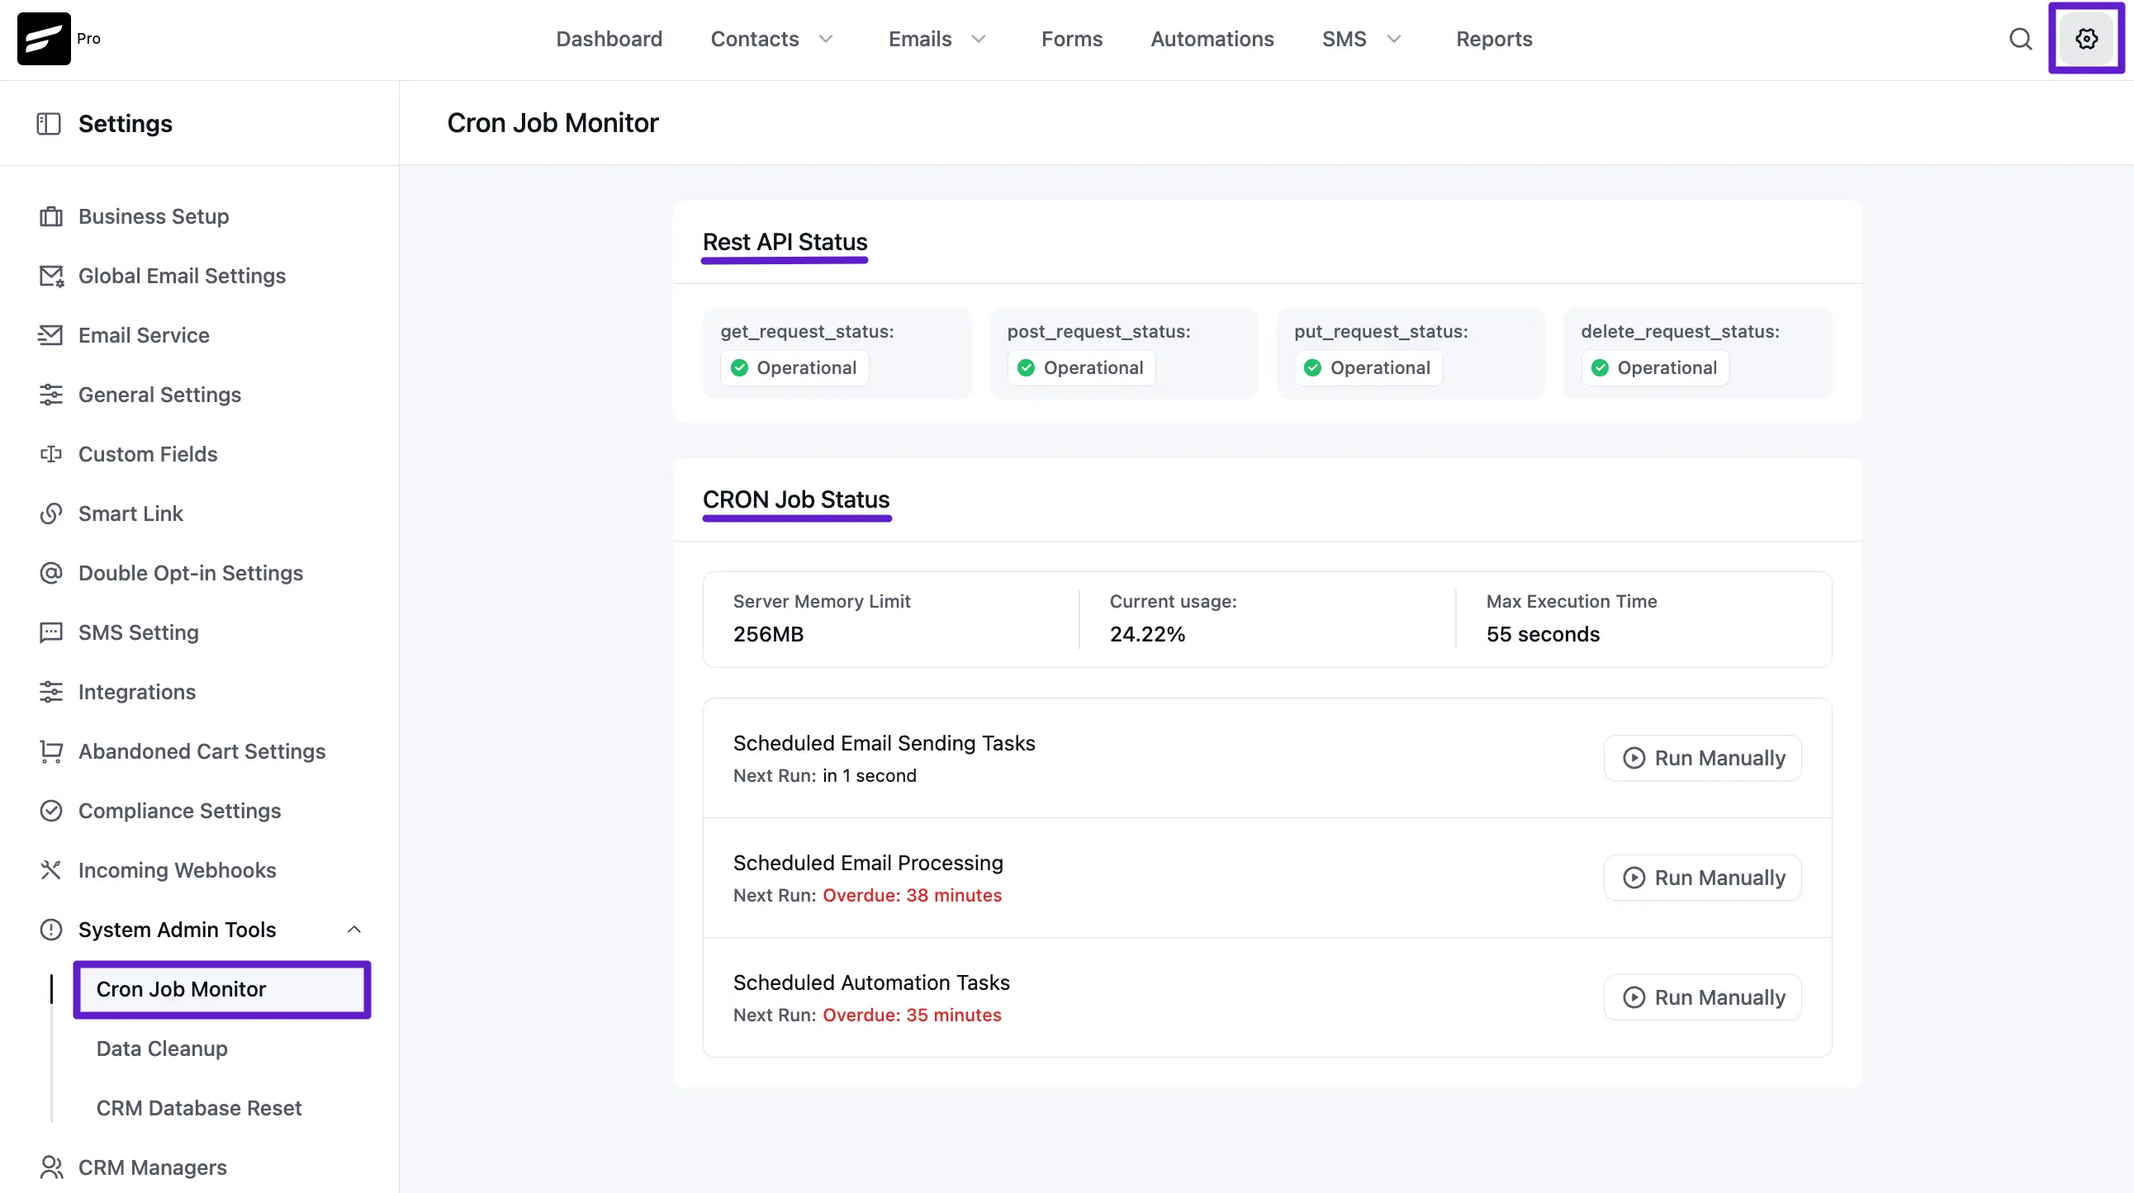
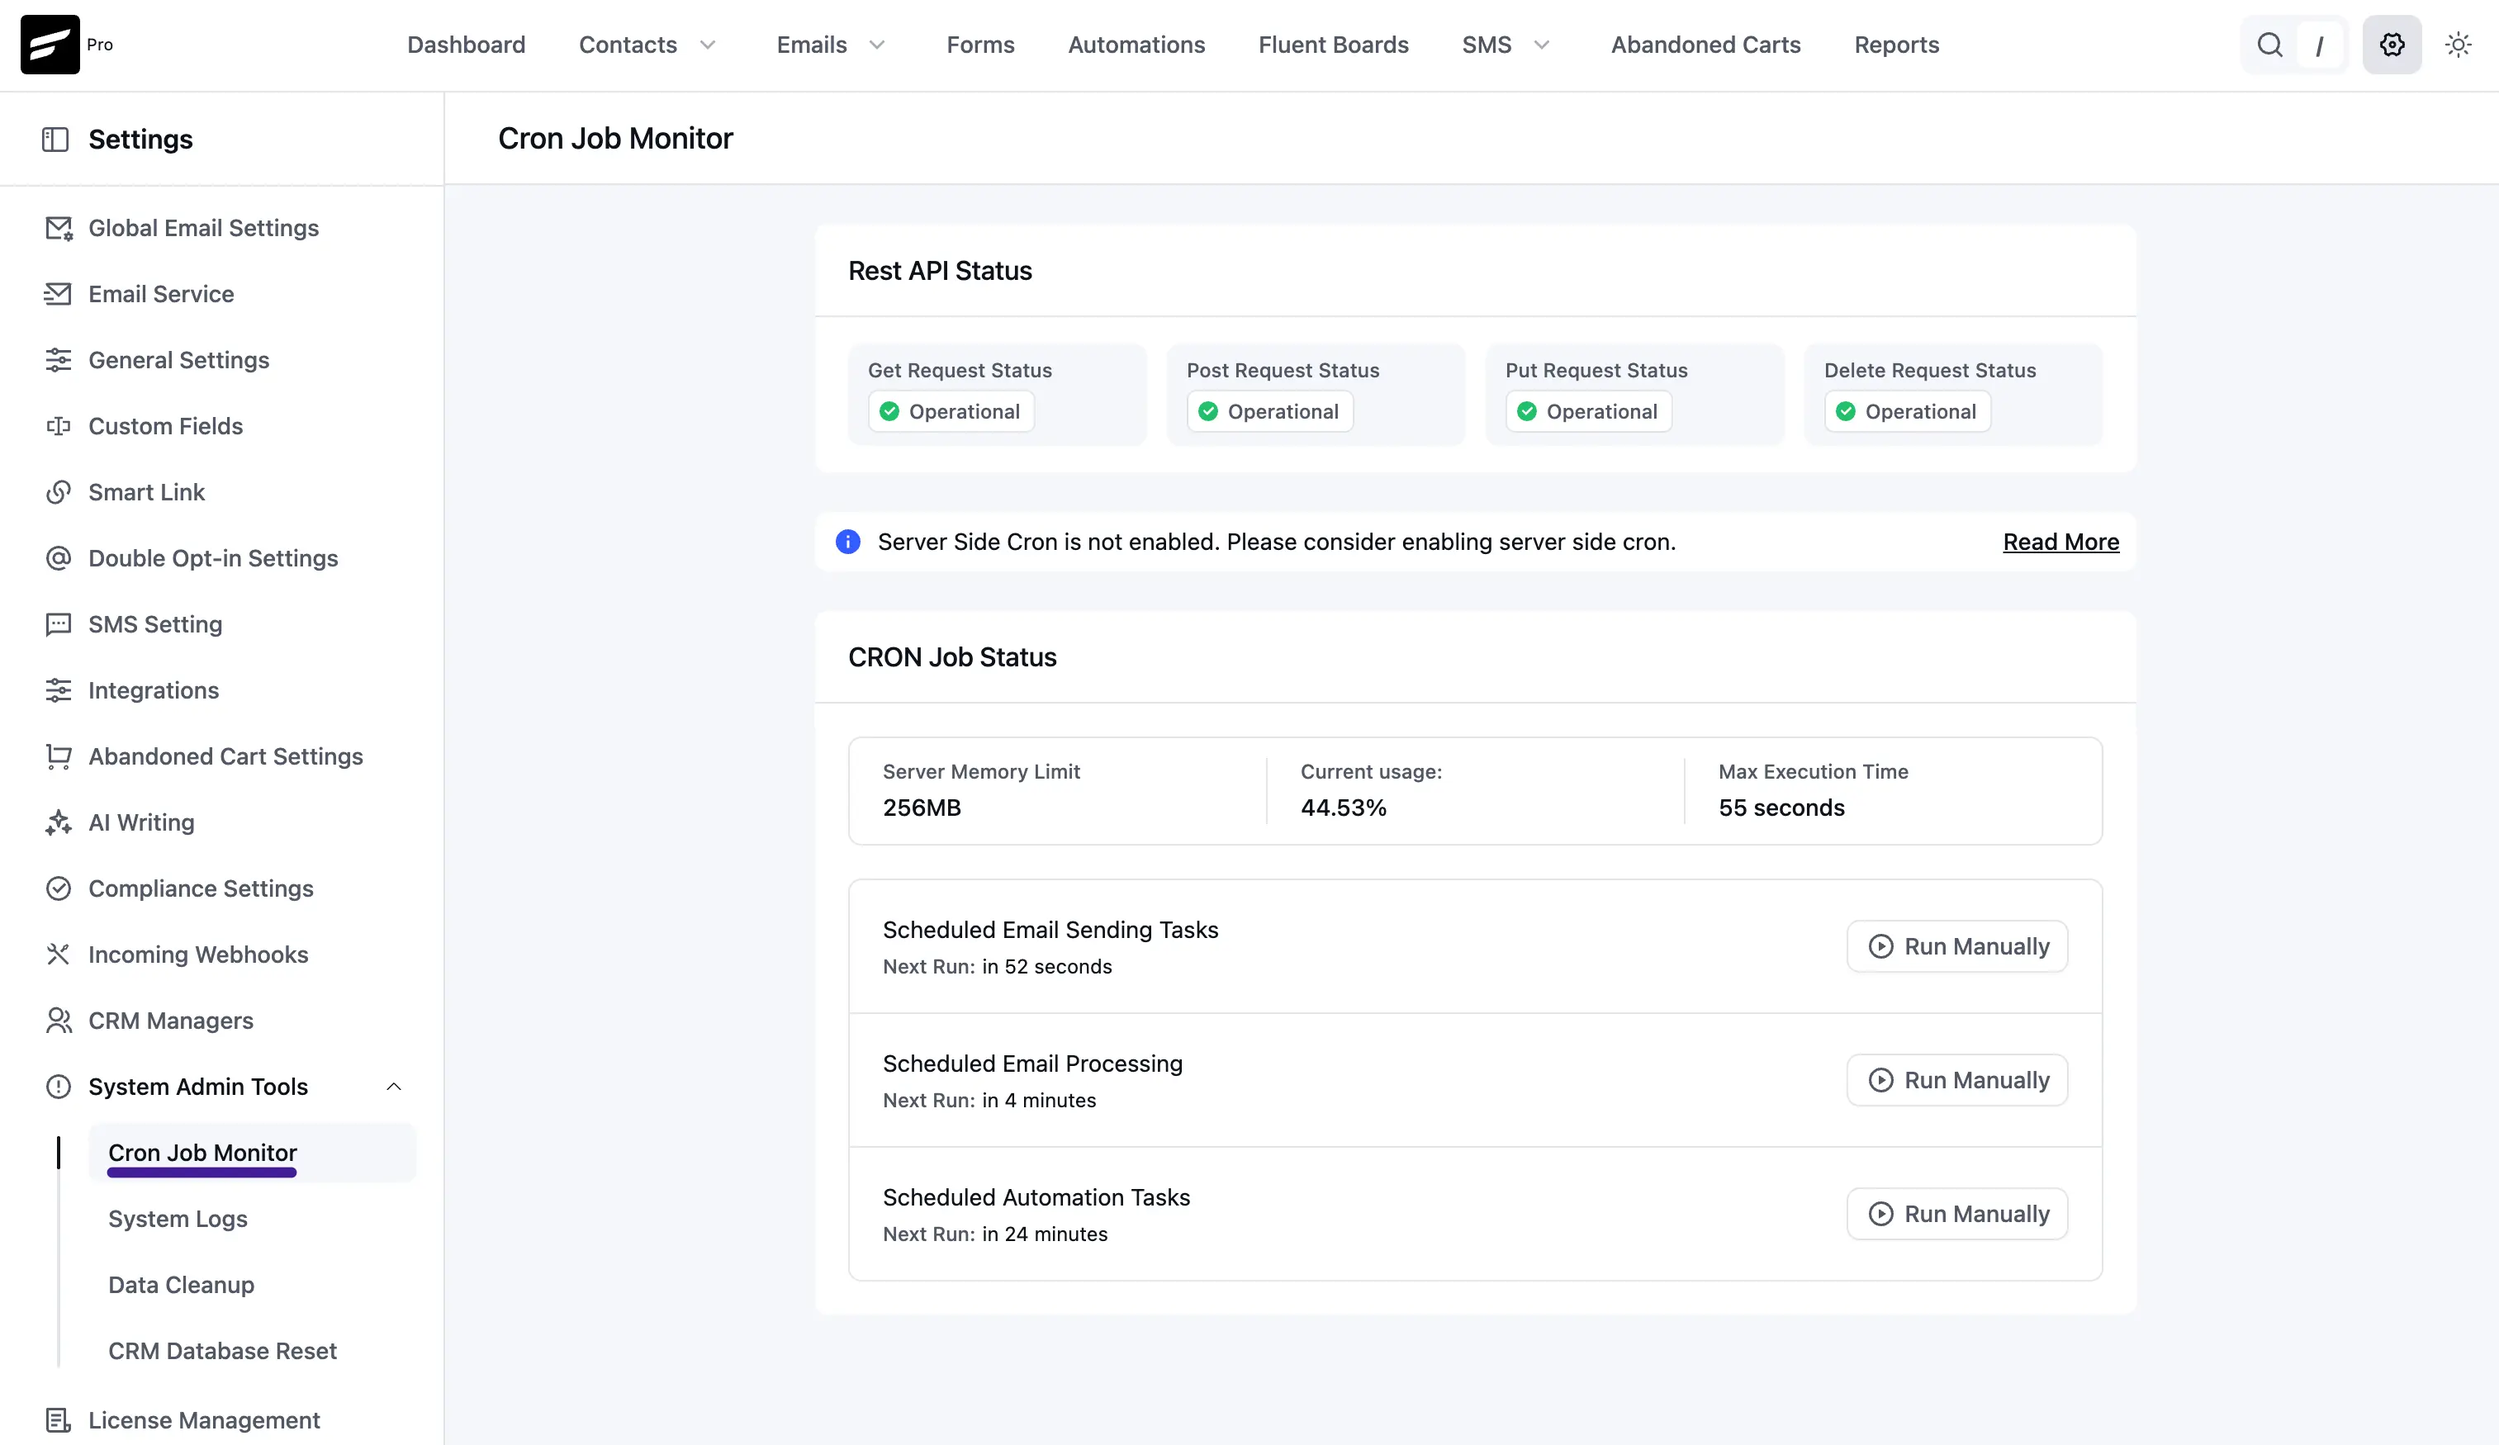
System Admin tool doc Update

diff --git a/docs/global-settings/fluentcrm-tools-settings.md b/docs/global-settings/fluentcrm-tools-settings.md
@@ -7,16 +7,16 @@ order: 0
 
 # System Admin Tools
 
-The **System Admin Tools** area in [FluentCRM](https://fluentcrm.com/) v3 brings together every administrative tool you need to keep your CRM healthy: REST API checks, the Cron Job Monitor, Data Cleanup, and the database reset utility. These were grouped under "Tools" in older versions; v3 splits them into clearly-labelled sub-routes under one **System Admin Tools** menu so you always know where to look.
+The **System Admin Tools** area in FluentCRM v3 brings together the maintenance and troubleshooting tools you need to keep your CRM healthy. These tools now appear as dedicated sub-items under **System Admin Tools**, making it easier to jump into the exact task you need.
 
 To open them, go to **FluentCRM → Settings → System Admin Tools** in your WordPress admin. From there, the left-hand sub-navigation exposes:
 
--   **Cron Job Monitor** – Inspect REST API status and scheduled tasks (this page).
--   **Data Cleanup** – Trim email logs, click logs, and open logs older than a specified number of days.
--   **CRM Database Reset** – Wipe FluentCRM tables in development environments (gated behind a `wp-config.php` flag).
--   **System Logs** *(optional, behind an experimental flag)* – Inspect detailed application logs for debugging.
+- **Cron Job Monitor** – Inspect REST API status and scheduled tasks.
+- **System Logs** – Review internal processing logs with filtering and refresh controls.
+- **Data Cleanup** – Trim email logs, click logs, and open logs older than a specified number of days.
+- **CRM Database Reset** – Permanently erase FluentCRM data in development environments (requires a `wp-config.php` flag).
 
-## REST API 
+## REST API
 
 The WordPress REST API **provides REST endpoints (URLs) representing the posts, pages, taxonomies, and other built-in WordPress data types**. Your application can send JSON data to these endpoints to query, modify and create content on your site.
 
@@ -32,9 +32,9 @@ To monitor your scheduled tasks, navigate to: **FluentCRM Dashboard ➜ Settings
 
 By default, WordPress handles these via PHP-based scheduled jobs, which can be unreliable. We strongly recommend replacing the default WordPress cron with a server-side Cron Job. FluentCRM operates three primary types of scheduled jobs:
 
- * **Scheduled Email Sending:** Processes the email sending queue. This should run **every** minute.
- * **Scheduled Email Processing:** Runs every **5 minutes** to process tasks like email opens and clicks.
- * **Scheduled Automation Tasks:** Runs **hourly** for automation steps and **weekly** for database cleanup logs.
+- **Scheduled Email Sending:** Processes the email sending queue. This should run **every** minute.
+- **Scheduled Email Processing:** Runs every **5 minutes** to process tasks like email opens and clicks.
+- **Scheduled Automation Tasks:** Runs **hourly** for automation steps and **weekly** for database cleanup logs.
 
 In the **Cron Job Monitor**, you can see the **Hook Name**, **Interval**, and the **Next Run** time. If a task is overdue, it will be highlighted to alert you of a potential scheduling issue.
 
@@ -42,15 +42,44 @@ In the **Cron Job Monitor**, you can see the **Hook Name**, **Interval**, and th
 
 It is strongly recommended that you replace your default WordPress cron that runs by PHP script with a server-side Cron Job. We have a guide on how to do this on various platforms here: [Server Side Cron Job Replacement](/docs/replace-wordpress-cron-with-a-real-cron-job). This will ensure that scheduled events are running timely and properly and FluentCRM also runs smoothly and do not miss any events.
 
+## System Logs
+
+The **System Logs** screen helps you inspect recent FluentCRM activity and troubleshoot background processes such as automation actions, scheduler runs, and SMS processing.
+
+The page includes:
+
+- A search box to filter logs quickly.
+- **Refresh** to reload the latest entries.
+- **Reset** to clear applied filters/state and return to the default view.
+- A table with **ID**, **Date & Time**, **Title**, and **Description** columns.
+
+![crm tools system logs](/global-settings/fluentcrm-tools-settings/crm_tools_system_logs.webp)
+
 ## Reset FluentCRM Data
 
-If you want to delete all your FluentCRM data (Contacts, Campaigns, Settings, Emails) then you can utilize this feature to Reset the data of the FluentCRM. This will only work with FluentCRM database tables. But to use this feature you also need to add a configuration directive in your **wp-config.php** file.
+Path: **FluentCRM Dashboard → Settings → System Admin Tools → CRM Database Reset**.
+
+If you want to permanently remove all FluentCRM data (contacts, campaigns, automations, logs, tags, lists, custom fields, templates, and related settings), you can use **CRM Database Reset**. This action affects FluentCRM data only, and cannot be undone.
+
+In the current UI, this section clearly shows a **Developer Mode Required** notice. To enable the reset actions, add the following directive to your **wp-config.php** file:
+
+`define('FLUENTCRM_IS_DEV_FEATURES', true);`
+
+Add it **before** the line:
+
+`/* That's all, stop editing! Happy publishing. */`
+
+After enabling developer mode, the page displays a **Complete Data Removal** panel with:
+
+- A summary of the modules that will be deleted.
+- An optional checkbox to include contact info in WordPress personal data export.
+- A destructive button: **Permanently Erase FluentCRM Data**.
+
+Always take a full database backup before using this action.
 
 ![crm tools danger zone](/global-settings/fluentcrm-tools-settings/crm_tools_danger_zone.webp)
 
-Open your wp-config.php with any editor from the Hosting Control Panel like cPanel, or Plesk or download it using FTP and update it and reupload and overwrite it.
-
-Add **define('FLUENTCRM\_IS\_DEV\_FEATURES', true);** **before** the line says **/\* That's all, stop editing! Happy publishing. \*/**
+For reference, here is the older warning-style interface from previous versions:
 
 ![crm tools debug wp config](/global-settings/fluentcrm-tools-settings/crm_tools_debug_wp_config.webp)
 
@@ -63,6 +92,4 @@ In some cases, you might not want to delete all of your contacts, maybe you just
 Select the Logs you want to delete, click on the **Preview Log Summary** button. This period should be at least **7 days** or you will see an error like the above screenshot.
 
 ![crm tools data cleanup min 7days](/global-settings/fluentcrm-tools-settings/crm_tools_data_cleanup_min_7days.webp)
-
-
-Review the summary and click on the **Yes, I want to delete the Old Logs** button only if you know what you are doing. 
+Review the summary and click on the **Yes, I want to delete the Old Logs** button only if you know what you are doing.
